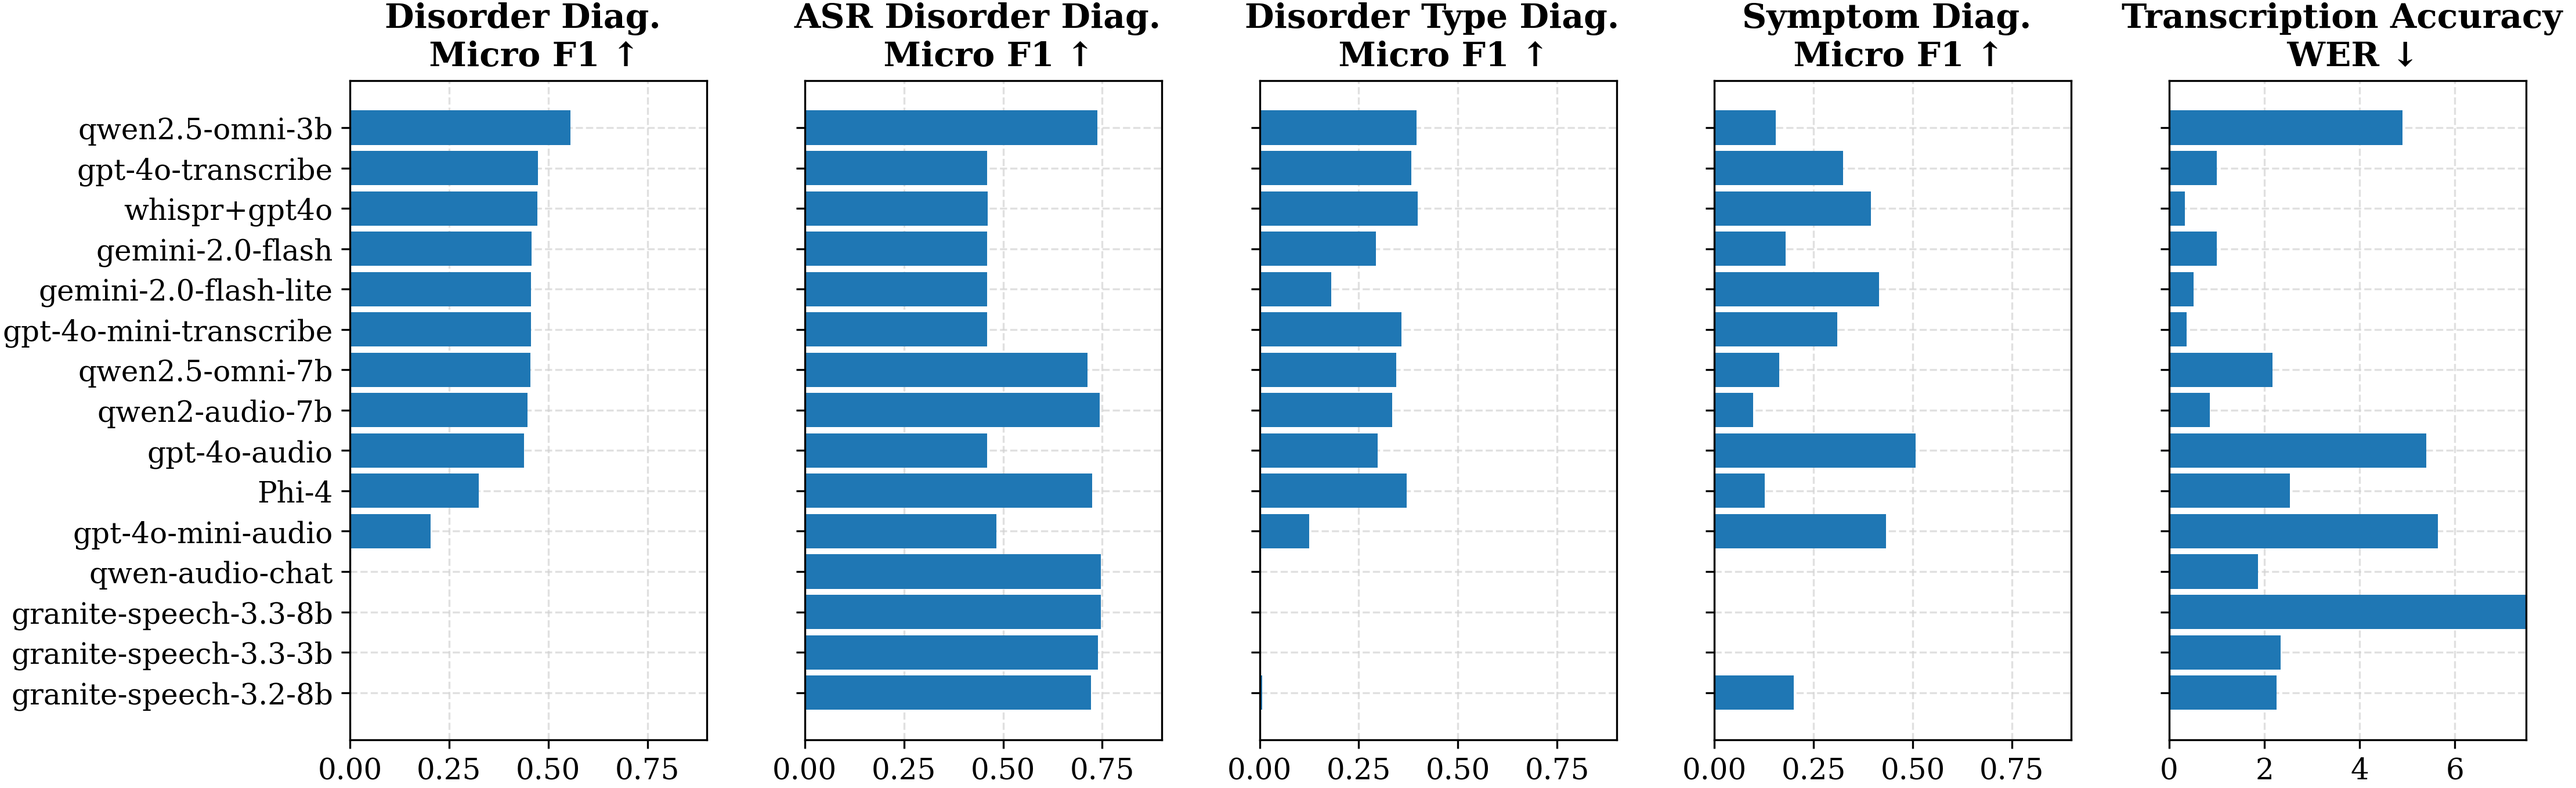
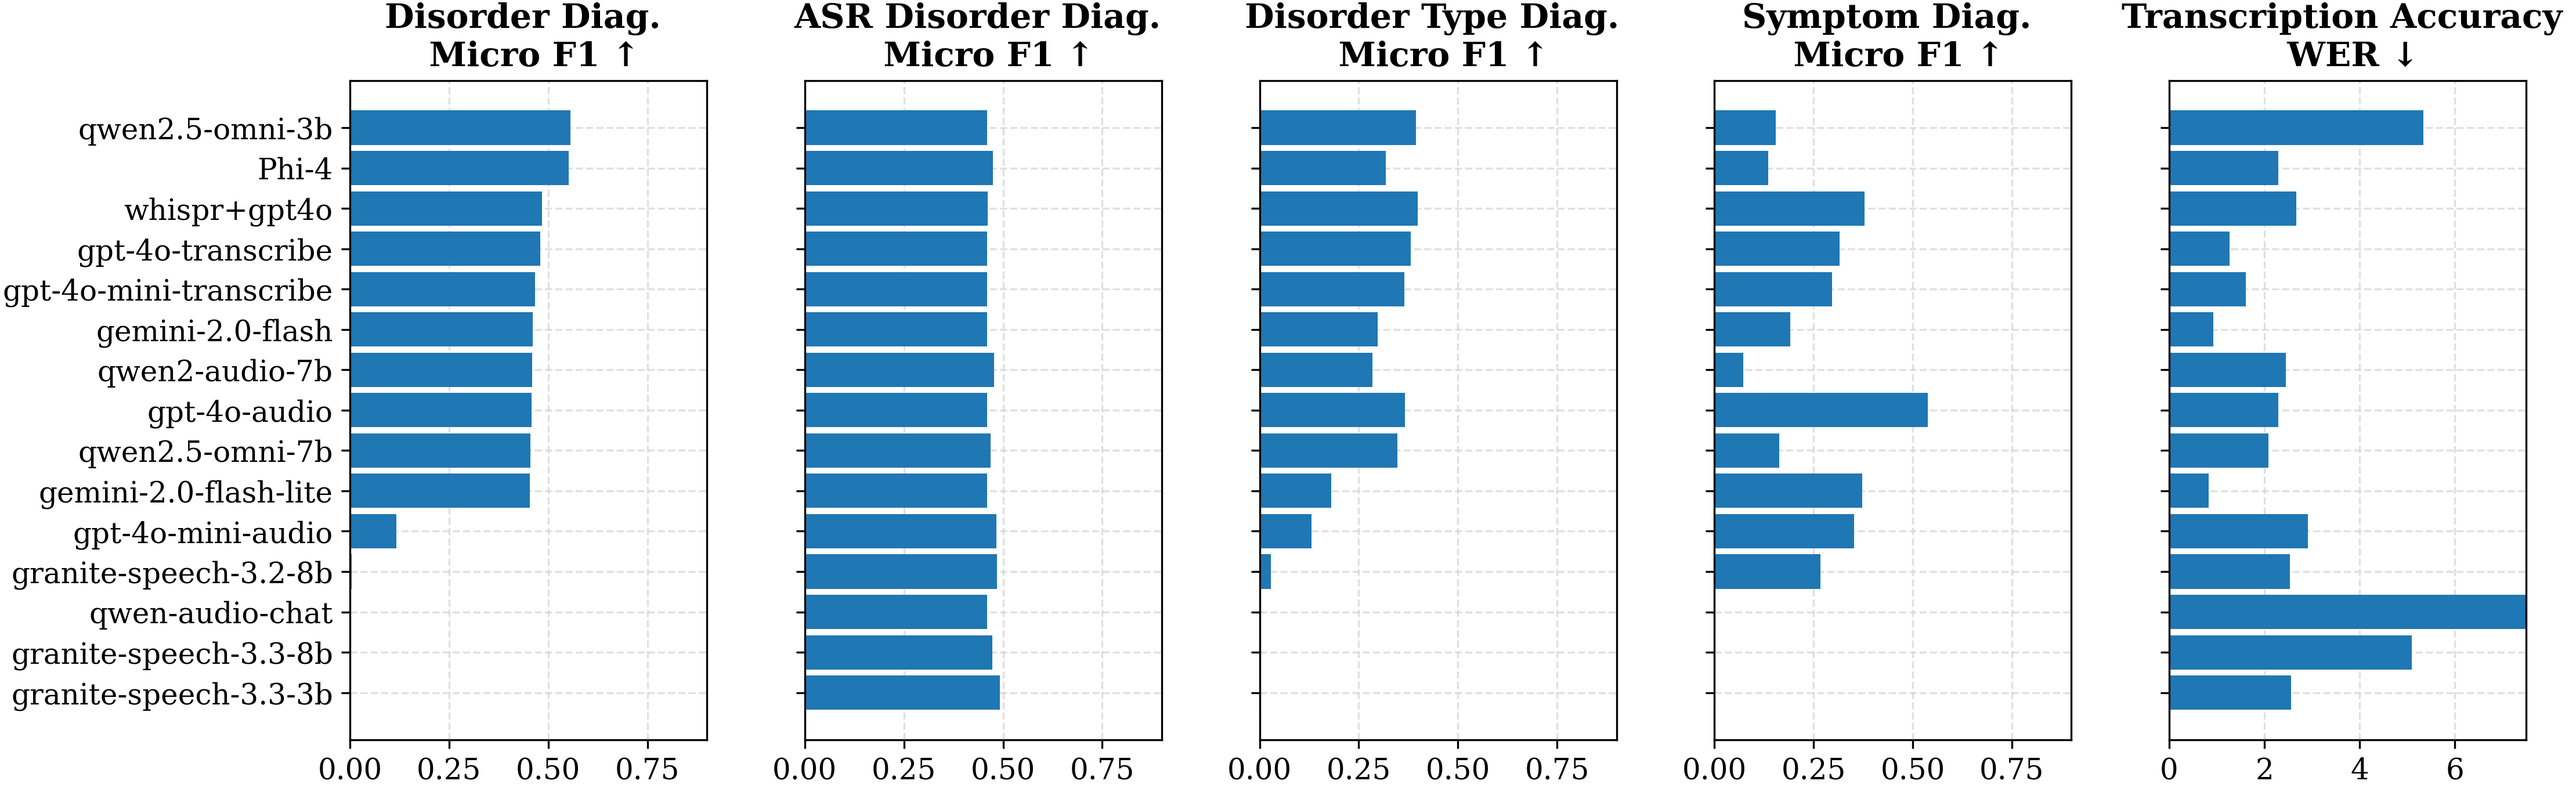
update values

diff --git a/all_scenarios.py b/all_scenarios.py
@@ -11,109 +11,109 @@ plt.rcParams['text.usetex'] = False
 # Model-wise data structure - much cleaner and easier to maintain
 MODEL_DATA = {
     'gemini-2.0-flash-lite': {
-        'disorder_diagnosis': 0.457,
+        'disorder_diagnosis': 0.454,
         'asr_disorder_diagnosis': 0.4590,
         'disorder_type_classification': 0.180,
-        'disorder_symptom_classification': 0.415,
-        'transcription_accuracy': 0.51
+        'disorder_symptom_classification': 0.373,
+        'transcription_accuracy': 0.83
     },
     'gemini-2.0-flash': {
-        'disorder_diagnosis': 0.458,
+        'disorder_diagnosis': 0.461,
         'asr_disorder_diagnosis': 0.4600,
-        'disorder_type_classification': 0.294,
-        'disorder_symptom_classification': 0.180,
-        'transcription_accuracy': 1.00
+        'disorder_type_classification': 0.298,
+        'disorder_symptom_classification': 0.191,
+        'transcription_accuracy': 0.931
     },
     'gpt-4o-mini-audio': {
-        'disorder_diagnosis': 0.204,
+        'disorder_diagnosis': 0.117,
         'asr_disorder_diagnosis': 0.4838,
-        'disorder_type_classification': 0.125,
-        'disorder_symptom_classification': 0.433,
-        'transcription_accuracy': 5.64
+        'disorder_type_classification': 0.131,
+        'disorder_symptom_classification': 0.352,
+        'transcription_accuracy': 2.92
     },
     'gpt-4o-audio': {
-        'disorder_diagnosis': 0.439,
+        'disorder_diagnosis': 0.458,
         'asr_disorder_diagnosis': 0.4590,
-        'disorder_type_classification': 0.298,
-        'disorder_symptom_classification': 0.507,
-        'transcription_accuracy': 5.40
+        'disorder_type_classification': 0.366,
+        'disorder_symptom_classification': 0.538,
+        'transcription_accuracy': 2.29
     },
     'gpt-4o-mini-transcribe': {
-        'disorder_diagnosis': 0.456,
+        'disorder_diagnosis': 0.466,
         'asr_disorder_diagnosis': 0.4600,
-        'disorder_type_classification': 0.358,
-        'disorder_symptom_classification': 0.310,
-        'transcription_accuracy': 0.37
+        'disorder_type_classification': 0.365,
+        'disorder_symptom_classification': 0.297,
+        'transcription_accuracy': 1.61
     },
     'gpt-4o-transcribe': {
-        'disorder_diagnosis': 0.474,
+        'disorder_diagnosis': 0.480,
         'asr_disorder_diagnosis': 0.4600,
-        'disorder_type_classification': 0.382,
-        'disorder_symptom_classification': 0.325,
-        'transcription_accuracy': 1.00
+        'disorder_type_classification': 0.381,
+        'disorder_symptom_classification': 0.316,
+        'transcription_accuracy': 1.267
     },
     'whispr+gpt4o': {
-        'disorder_diagnosis': 0.473,
+        'disorder_diagnosis': 0.484,
         'asr_disorder_diagnosis': 0.4611,
         'disorder_type_classification': 0.399,
-        'disorder_symptom_classification': 0.395,
-        'transcription_accuracy': 0.33
+        'disorder_symptom_classification': 0.378,
+        'transcription_accuracy': 2.668
     },
     'qwen2.5-omni-7b': {
         'disorder_diagnosis': 0.455,
-        'asr_disorder_diagnosis': 0.713,
-        'disorder_type_classification': 0.345,
+        'asr_disorder_diagnosis': 0.468,
+        'disorder_type_classification': 0.347,
         'disorder_symptom_classification': 0.163,
-        'transcription_accuracy': 2.17
+        'transcription_accuracy': 2.084
     },
     'qwen2.5-omni-3b': {
         'disorder_diagnosis': 0.556,
-        'asr_disorder_diagnosis': 0.738,
-        'disorder_type_classification': 0.396,
+        'asr_disorder_diagnosis': 0.459,
+        'disorder_type_classification': 0.394,
         'disorder_symptom_classification': 0.155,
-        'transcription_accuracy': 4.90
+        'transcription_accuracy': 5.346
     },
     'qwen2-audio-7b': {
-        'disorder_diagnosis': 0.447,
-        'asr_disorder_diagnosis': 0.743,
-        'disorder_type_classification': 0.335,
-        'disorder_symptom_classification': 0.097,
-        'transcription_accuracy': 0.86
+        'disorder_diagnosis': 0.460,
+        'asr_disorder_diagnosis': 0.477,
+        'disorder_type_classification': 0.284,
+        'disorder_symptom_classification': 0.073,
+        'transcription_accuracy': 2.449
     },
     'qwen-audio-chat': {
         'disorder_diagnosis': 0.000,
-        'asr_disorder_diagnosis': 0.747,
+        'asr_disorder_diagnosis': 0.460,
         'disorder_type_classification': 0.000,
         'disorder_symptom_classification': 0.000,
-        'transcription_accuracy': 1.87
+        'transcription_accuracy': 9.549
     },
     'Phi-4': {
-        'disorder_diagnosis': 0.325,
-        'asr_disorder_diagnosis': 0.724,
-        'disorder_type_classification': 0.371,
-        'disorder_symptom_classification': 0.127,
-        'transcription_accuracy': 2.54
+        'disorder_diagnosis': 0.552,
+        'asr_disorder_diagnosis': 0.474,
+        'disorder_type_classification': 0.318,
+        'disorder_symptom_classification': 0.135,
+        'transcription_accuracy': 2.288
     },
     'granite-speech-3.3-8b': {
         'disorder_diagnosis': 0.000,
-        'asr_disorder_diagnosis': 0.746,
+        'asr_disorder_diagnosis': 0.473,
         'disorder_type_classification': 0.000,
         'disorder_symptom_classification': 0.000,
-        'transcription_accuracy': 9.11
+        'transcription_accuracy': 5.094
     },
     'granite-speech-3.3-3b': {
         'disorder_diagnosis': 0.000,
-        'asr_disorder_diagnosis': 0.739,
+        'asr_disorder_diagnosis': 0.492,
         'disorder_type_classification': 0.000,
         'disorder_symptom_classification': 0.000,
-        'transcription_accuracy': 2.34
+        'transcription_accuracy': 2.564
     },
     'granite-speech-3.2-8b': {
-        'disorder_diagnosis': 0.000,
-        'asr_disorder_diagnosis': 0.721,
-        'disorder_type_classification': 0.007,
-        'disorder_symptom_classification': 0.200,
-        'transcription_accuracy': 2.25
+        'disorder_diagnosis': 0.004,
+        'asr_disorder_diagnosis': 0.484,
+        'disorder_type_classification': 0.028,
+        'disorder_symptom_classification': 0.268,
+        'transcription_accuracy': 2.535
     }
 }
 

diff --git a/extra_analysis_figure.py b/extra_analysis_figure.py
@@ -90,37 +90,37 @@ model_data = {
     'gpt-4o-audio': {
         'perturbation': {'type_f1': 0.36, 'noisy_type_f1': 0.29, 'symp_f1': 0.18, 'noisy_symp_f1': 0.18},
         'gender': {'male_binary_f1': 0.58, 'female_binary_f1': 0.30, 'male_type_f1': 0.41, 'female_type_f1': 0.24},
-        'language': {'english_f1': 0.16, 'french_f1': 0.30, 'dutch_f1': 0.33, 'spanish_f1': 0.09, 'english_wer': 2.25, 'french_wer': 4.45, 'dutch_wer': 5.66, 'spanish_wer': 2.19}
+        'language': {'english_f1': 0.324, 'french_f1': 0.5885, 'dutch_f1': 0.3231, 'spanish_f1': 0.0952, 'english_wer': 2.29, 'french_wer': 1.234, 'dutch_wer': 5.663, 'spanish_wer': 2.194}
     },
     'gemini-2.0-flash': {
         'perturbation': {'type_f1': 0.46, 'noisy_type_f1': 0.33, 'symp_f1': 0.18, 'noisy_symp_f1': 0.18},
         'gender': {'male_binary_f1': 0.564, 'female_binary_f1': 0.30, 'male_type_f1': 0.44, 'female_type_f1': 0.24},
-        'language': {'english_f1': 0.33, 'french_f1': 0.49, 'dutch_f1': 0.35, 'spanish_f1': 0.20, 'english_wer': 0.94, 'french_wer': 5.9, 'dutch_wer': 4.7, 'spanish_wer': 1.5}
+        'language': {'english_f1': 0.322, 'french_f1': 0.5365, 'dutch_f1': 0.3843, 'spanish_f1': 0.2043, 'english_wer': 0.931, 'french_wer': 1.196, 'dutch_wer': 4.708, 'spanish_wer': 1.542}
     },
     'gemini-2.0-flash-lite': {
         'perturbation': {'type_f1': 0.19, 'noisy_type_f1': 0.14, 'symp_f1': 0.41, 'noisy_symp_f1': 0.4},
         'gender': {'male_binary_f1': 0.56, 'female_binary_f1': 0.31, 'male_type_f1': 0.24, 'female_type_f1': 0.09},
-        'language': {'english_f1': 0.34, 'french_f1': 0.27, 'dutch_f1': 0.49, 'spanish_f1': 0.33, 'english_wer': 0.83, 'french_wer': 4.95, 'dutch_wer': 3.27, 'spanish_wer': 1.72}
+        'language': {'english_f1': 0.330, 'french_f1': 0.3498, 'dutch_f1': 0.4965, 'spanish_f1': 0.3320, 'english_wer': 0.83, 'french_wer': 0.877, 'dutch_wer': 3.276, 'spanish_wer': 1.720}
     },
     'gpt-4o-mini-audio': {
         'perturbation': {'type_f1': 0.15, 'noisy_type_f1': 0.05, 'symp_f1': 0.43, 'noisy_symp_f1': 0.42},
         'gender': {'male_binary_f1': 0.22, 'female_binary_f1': 0.16, 'male_type_f1': 0.17, 'female_type_f1': 0.11},
-        'language': {'english_f1': 0.21, 'french_f1': 0.10, 'dutch_f1': 0.02, 'spanish_f1': 0.0, 'english_wer': 1.4, 'french_wer': 5.27, 'dutch_wer': 5.94, 'spanish_wer': 5.33}
+        'language': {'english_f1': 0.113, 'french_f1': 0.6215, 'dutch_f1': 0.0214, 'spanish_f1': 0.0, 'english_wer': 2.92, 'french_wer': 1.211, 'dutch_wer': 5.942, 'spanish_wer': 5.330}
     },
     'gpt-4o-audio-transcribe': {
         'perturbation': {'type_f1': 0.41, 'noisy_type_f1': 0.36, 'symp_f1': 0.31, 'noisy_symp_f1': 0.30},
         'gender': {'male_binary_f1': 0.58, 'female_binary_f1': 0.34, 'male_type_f1': 0.49, 'female_type_f1': 0.34},
-        'language': {'english_f1': 0.47, 'french_f1': 0.49, 'dutch_f1': 0.48, 'spanish_f1': 0.27, 'english_wer': 1.31, 'french_wer': 4.27, 'dutch_wer': 2.73, 'spanish_wer': 1.66}
+        'language': {'english_f1': 0.373, 'french_f1': 0.7667, 'dutch_f1': 0.4856, 'spanish_f1': 0.2721, 'english_wer': 1.267, 'french_wer': 0.807, 'dutch_wer': 2.734, 'spanish_wer': 1.664}
     },
     'gpt-4o-audio-mini-transcribe': {
         'perturbation': {'type_f1': 0.42, 'noisy_type_f1': 0.34, 'symp_f1': 0.31, 'noisy_symp_f1': 0.31},
         'gender': {'male_binary_f1': 0.56, 'female_binary_f1': 0.29, 'male_type_f1': 0.5, 'female_type_f1': 0.34},
-        'language': {'english_f1': 0.56, 'french_f1': 0.49, 'dutch_f1': 0.48, 'spanish_f1': 0.22, 'english_wer': 1.54, 'french_wer': 4.41, 'dutch_wer': 2.67, 'spanish_wer': 1.66}
+        'language': {'english_f1': 0.344, 'french_f1': 0.7349, 'dutch_f1': 0.4884, 'spanish_f1': 0.2296, 'english_wer': 1.61, 'french_wer': 0.871, 'dutch_wer': 2.678, 'spanish_wer': 1.662}
     },
     'whispr+gpt4o': {
         'perturbation': {'type_f1': 0.43, 'noisy_type_f1': 0.48, 'symp_f1': 0.36, 'noisy_symp_f1': 0.40},
         'gender': {'male_binary_f1': 0.29, 'female_binary_f1': 0.35, 'male_type_f1': 0.512, 'female_type_f1': 0.38},
-        'language': {'english_f1': 0.37, 'french_f1': 0.36, 'dutch_f1': 0.16, 'spanish_f1': 0.04, 'english_wer': 2.87, 'french_wer': 7.51, 'dutch_wer': 7.16, 'spanish_wer': 2.135}
+        'language': {'english_f1': 0.391, 'french_f1': 0.5184, 'dutch_f1': 0.1594, 'spanish_f1': 0.0448, 'english_wer': 2.668, 'french_wer': 1.200, 'dutch_wer': 7.166, 'spanish_wer': 2.314}
     }
 }
 
@@ -187,9 +187,9 @@ plot_configs = [
     
     # Language Analysis (4 languages)
     (english_scores_f1, french_scores_f1, 'English', 'French', 
-     color_language, 'Disorder Diag.', 'Macro F1 Score ↑', x_lim, False, dutch_scores_f1, 'Dutch', color_language[2], spanish_scores_f1, 'Spanish', color_language[3]),
+     color_language, 'Disorder Diag.', 'Macro F1 Score ↑', x_lim, False, dutch_scores_f1, 'Dutch', color_language[2], None, None, None),
     (english_scores_wer, french_scores_wer, 'English', 'French', 
-     color_language, 'Transcription Accuracy', 'Word Error Rate (WER) ↓', xlim_upper_wer, False, dutch_scores_wer, 'Dutch', color_language[2], spanish_scores_wer, 'Spanish', color_language[3]),
+     color_language, 'Transcription Accuracy', 'Word Error Rate (WER) ↓', xlim_upper_wer, False, dutch_scores_wer, 'Dutch', color_language[2], None, None, None),
 ]
 
 # Store legend handles for each unique color scheme

diff --git a/age_group_analysis.py b/age_group_analysis.py
@@ -61,32 +61,32 @@ def plot_horizontal_grouped_bar_chart(ax, models, scores1, scores2, scores3, lab
 # Each model contains symptom classification scores and transcription WER scores for 3 age groups
 age_group_data = {
     'gpt-4o-audio': {
-        'symptom_classification': {'5 - 7 y/o': 0.42, '8 - 10 y/o': 0.511, '10+ y/o': 0.60},
-        'transcription_wer': {'5 - 7 y/o': 5.63, '8 - 10 y/o': 6.05, '10+ y/o': 4.16}
+        'disorder_type_classification': {'5 - 7 y/o': 0.561, '8 - 10 y/o': 0.336, '10+ y/o': 0.261},
+        'transcription_wer': {'5 - 7 y/o': 5.630, '8 - 10 y/o': 6.052, '10+ y/o': 4.162}
     },
     'gemini-2.0-flash': {
-        'symptom_classification': {'5 - 7 y/o': 0.21, '8 - 10 y/o': 0.18, '10+ y/o': 0.13},
-        'transcription_wer': {'5 - 7 y/o': 4.34, '8 - 10 y/o': 4.45, '10+ y/o': 2.96}
+        'disorder_type_classification': {'5 - 7 y/o': 0.475, '8 - 10 y/o': 0.269, '10+ y/o': 0.200},
+        'transcription_wer': {'5 - 7 y/o': 4.346, '8 - 10 y/o': 4.452, '10+ y/o': 2.960}
     },
     'gemini-2.0-flash-lite': {
-        'symptom_classification': {'5 - 7 y/o': 0.32, '8 - 10 y/o': 0.43, '10+ y/o': 0.49},
-        'transcription_wer': {'5 - 7 y/o': 3.39, '8 - 10 y/o': 3.45, '10+ y/o': 2.65}
+        'disorder_type_classification': {'5 - 7 y/o': 0.306, '8 - 10 y/o': 0.161, '10+ y/o': 0.106},
+        'transcription_wer': {'5 - 7 y/o': 3.290, '8 - 10 y/o': 3.458, '10+ y/o': 2.650}
     },
     'gpt-4o-mini-audio': {
-        'symptom_classification': {'5 - 7 y/o': 0.32, '8 - 10 y/o': 0.416, '10+ y/o': 0.57},
-        'transcription_wer': {'5 - 7 y/o': 4.4, '8 - 10 y/o': 5.2, '10+ y/o': 5.0}
+        'disorder_type_classification': {'5 - 7 y/o': 0.232, '8 - 10 y/o': 0.120, '10+ y/o': 0.072},
+        'transcription_wer': {'5 - 7 y/o': 4.416, '8 - 10 y/o': 5.166, '10+ y/o': 5.008}
     },
     'gpt-4o-audio-transcribe': {
-        'symptom_classification': {'5 - 7 y/o': 0.34, '8 - 10 y/o': 0.34, '10+ y/o': 0.31},
-        'transcription_wer': {'5 - 7 y/o': 4.27, '8 - 10 y/o': 4.67, '10+ y/o': 3.34}
+        'disorder_type_classification': {'5 - 7 y/o': 0.496, '8 - 10 y/o': 0.354, '10+ y/o': 0.289},
+        'transcription_wer': {'5 - 7 y/o': 4.276, '8 - 10 y/o': 4.674, '10+ y/o': 3.342}
     },
     'gpt-4o-audio-mini-transcribe': {
-        'symptom_classification': {'5 - 7 y/o': 0.32, '8 - 10 y/o': 0.31, '10+ y/o': 0.27},
-        'transcription_wer': {'5 - 7 y/o': 5.4, '8 - 10 y/o': 5.46, '10+ y/o': 3.68}
+        'disorder_type_classification': {'5 - 7 y/o': 0.491, '8 - 10 y/o': 0.343, '10+ y/o': 0.254},
+        'transcription_wer': {'5 - 7 y/o': 5.404, '8 - 10 y/o': 5.466, '10+ y/o': 3.684}
     },
     'whispr+gpt4o': {
-        'symptom_classification': {'5 - 7 y/o': 0.33, '8 - 10 y/o': 0.4, '10+ y/o': 0.4},
-        'transcription_wer': {'5 - 7 y/o': 10.89, '8 - 10 y/o': 10.26, '10+ y/o': 4.86}
+        'disorder_type_classification': {'5 - 7 y/o': 0.522, '8 - 10 y/o': 0.391, '10+ y/o': 0.393},
+        'transcription_wer': {'5 - 7 y/o': 10.898, '8 - 10 y/o': 10.226, '10+ y/o': 4.866}
     }
 }
 
@@ -108,7 +108,7 @@ def extract_age_group_data(models, data_dict, metric_type, age_group_keys):
     return np.array(data_matrix)
 
 # Extract data arrays for plotting
-symptom_scores = extract_age_group_data(models, age_group_data, 'symptom_classification', age_group_keys)
+disorder_type_scores = extract_age_group_data(models, age_group_data, 'disorder_type_classification', age_group_keys)
 transcription_wer = extract_age_group_data(models, age_group_data, 'transcription_wer', age_group_keys)
 
 # Color scheme for the 3 age groups (matching extra_analysis_figure style)
@@ -123,13 +123,13 @@ x_lim_wer = 7.0
 fig_width, fig_height = 10, 10
 fig, axes = plt.subplots(2, 1, figsize=(fig_width, fig_height))
 
-# --- Subplot 1: Symptom Classification Scores ---
+# --- Subplot 1: Disorder Type Classification Scores ---
 plot_horizontal_grouped_bar_chart(
     axes[0], models, 
-    symptom_scores[:, 0], symptom_scores[:, 1], symptom_scores[:, 2],
+    disorder_type_scores[:, 0], disorder_type_scores[:, 1], disorder_type_scores[:, 2],
     '5-7 years', '8-10 years', '10+ years',
     colors[0], colors[1], colors[2],
-    'Symptom Classification', 'Micro F1 Score ↑', x_lim_symptom, bar_height,
+    'Disorder Type Classification', 'Micro F1 Score ↑', x_lim_symptom, bar_height,
     show_yticklabels=True
 )
 

diff --git a/finetune_figure.py b/finetune_figure.py
@@ -15,33 +15,33 @@ conditions = ['Base Model', 'Finetuned w/o Markers', 'Finetuned w/ Markers']
 # Define colors for each condition
 colors = ['#d62728', '#2ca02c', '#ff7f0e']  # Red, Green, Orange
 
-# Sample data for each subplot (you should replace with actual data)
+# Sample data for each subplot (updated with actual data from table)
 # Subplot 1: Disorder Diagnosis (Micro F1 Score)
 disorder_diagnosis_data = {
-    'Base Model': [0.455, 0.556, 0.447],
-    'Finetuned w/o Markers': [0.67, 0.25, 0.36], 
-    'Finetuned w/ Markers': [0.95, 0.89, 0.30]
+    'Base Model': [0.455, 0.556, 0.460],  # qwen2.5-omni-7b, qwen2.5-omni-3b, qwen2-audio-7b-instruct
+    'Finetuned w/o Markers': [0.482, 0.541, 0.366],  # qwen2.5-omni-7b, qwen2.5-omni-3b, qwen2-audio-7b-instruct (no asterisk)
+    'Finetuned w/ Markers': [0.504, 0.540, 0.314]   # qwen2.5-omni-7b, qwen2.5-omni-3b, qwen2-audio-7b-instruct (with asterisk)
 }
 
 # Subplot 2: Transcription Accuracy (Word Error Rate - lower is better)
 transcription_accuracy_data = {
-    'Base Model': [2.17, 4.98, 0.86],
-    'Finetuned w/o Markers': [1.76, 0.95, 0.52],
-    'Finetuned w/ Markers': [1.4, 0.97, 0.58]
+    'Base Model': [2.084, 5.346, 2.449],  # qwen2.5-omni-7b, qwen2.5-omni-3b, qwen2-audio-7b-instruct
+    'Finetuned w/o Markers': [1.762, 0.996, 0.572],  # qwen2.5-omni-7b, qwen2.5-omni-3b, qwen2-audio-7b-instruct (no asterisk)
+    'Finetuned w/ Markers': [1.206, 1.036, 0.574]   # qwen2.5-omni-7b, qwen2.5-omni-3b, qwen2-audio-7b-instruct (with asterisk)
 }
 
 # Subplot 3: Disorder Type Diagnosis (Micro F1 Score)
 disorder_type_data = {
-    'Base Model': [0.345, 0.396, 0.33],
-    'Finetuned w/o Markers': [0.40, 0.36, 0.27],
-    'Finetuned w/ Markers': [0.97, 0.91, 0.132]
+    'Base Model': [0.347, 0.394, 0.284],  # qwen2.5-omni-7b, qwen2.5-omni-3b, qwen2-audio-7b-instruct
+    'Finetuned w/o Markers': [0.413, 0.364, 0.271],  # qwen2.5-omni-7b, qwen2.5-omni-3b, qwen2-audio-7b-instruct (no asterisk)
+    'Finetuned w/ Markers': [0.390, 0.386, 0.207]   # qwen2.5-omni-7b, qwen2.5-omni-3b, qwen2-audio-7b-instruct (with asterisk)
 }
 
 # Subplot 4: Disorder Symptom Diagnosis (Micro F1 Score)  
 disorder_symptom_data = {
-    'Base Model': [0.163, 0.155, 0.10],
-    'Finetuned w/o Markers': [0.34, 0.16, 0.08],
-    'Finetuned w/ Markers': [0.95, 0.90, 0.07]
+    'Base Model': [0.163, 0.155, 0.073],  # qwen2.5-omni-7b, qwen2.5-omni-3b, qwen2-audio-7b-instruct
+    'Finetuned w/o Markers': [0.355, 0.158, 0.080],  # qwen2.5-omni-7b, qwen2.5-omni-3b, qwen2-audio-7b-instruct (no asterisk)
+    'Finetuned w/ Markers': [0.262, 0.155, 0.073]   # qwen2.5-omni-7b, qwen2.5-omni-3b, qwen2-audio-7b-instruct (with asterisk)
 }
 
 # Create figure with 4 subplots
